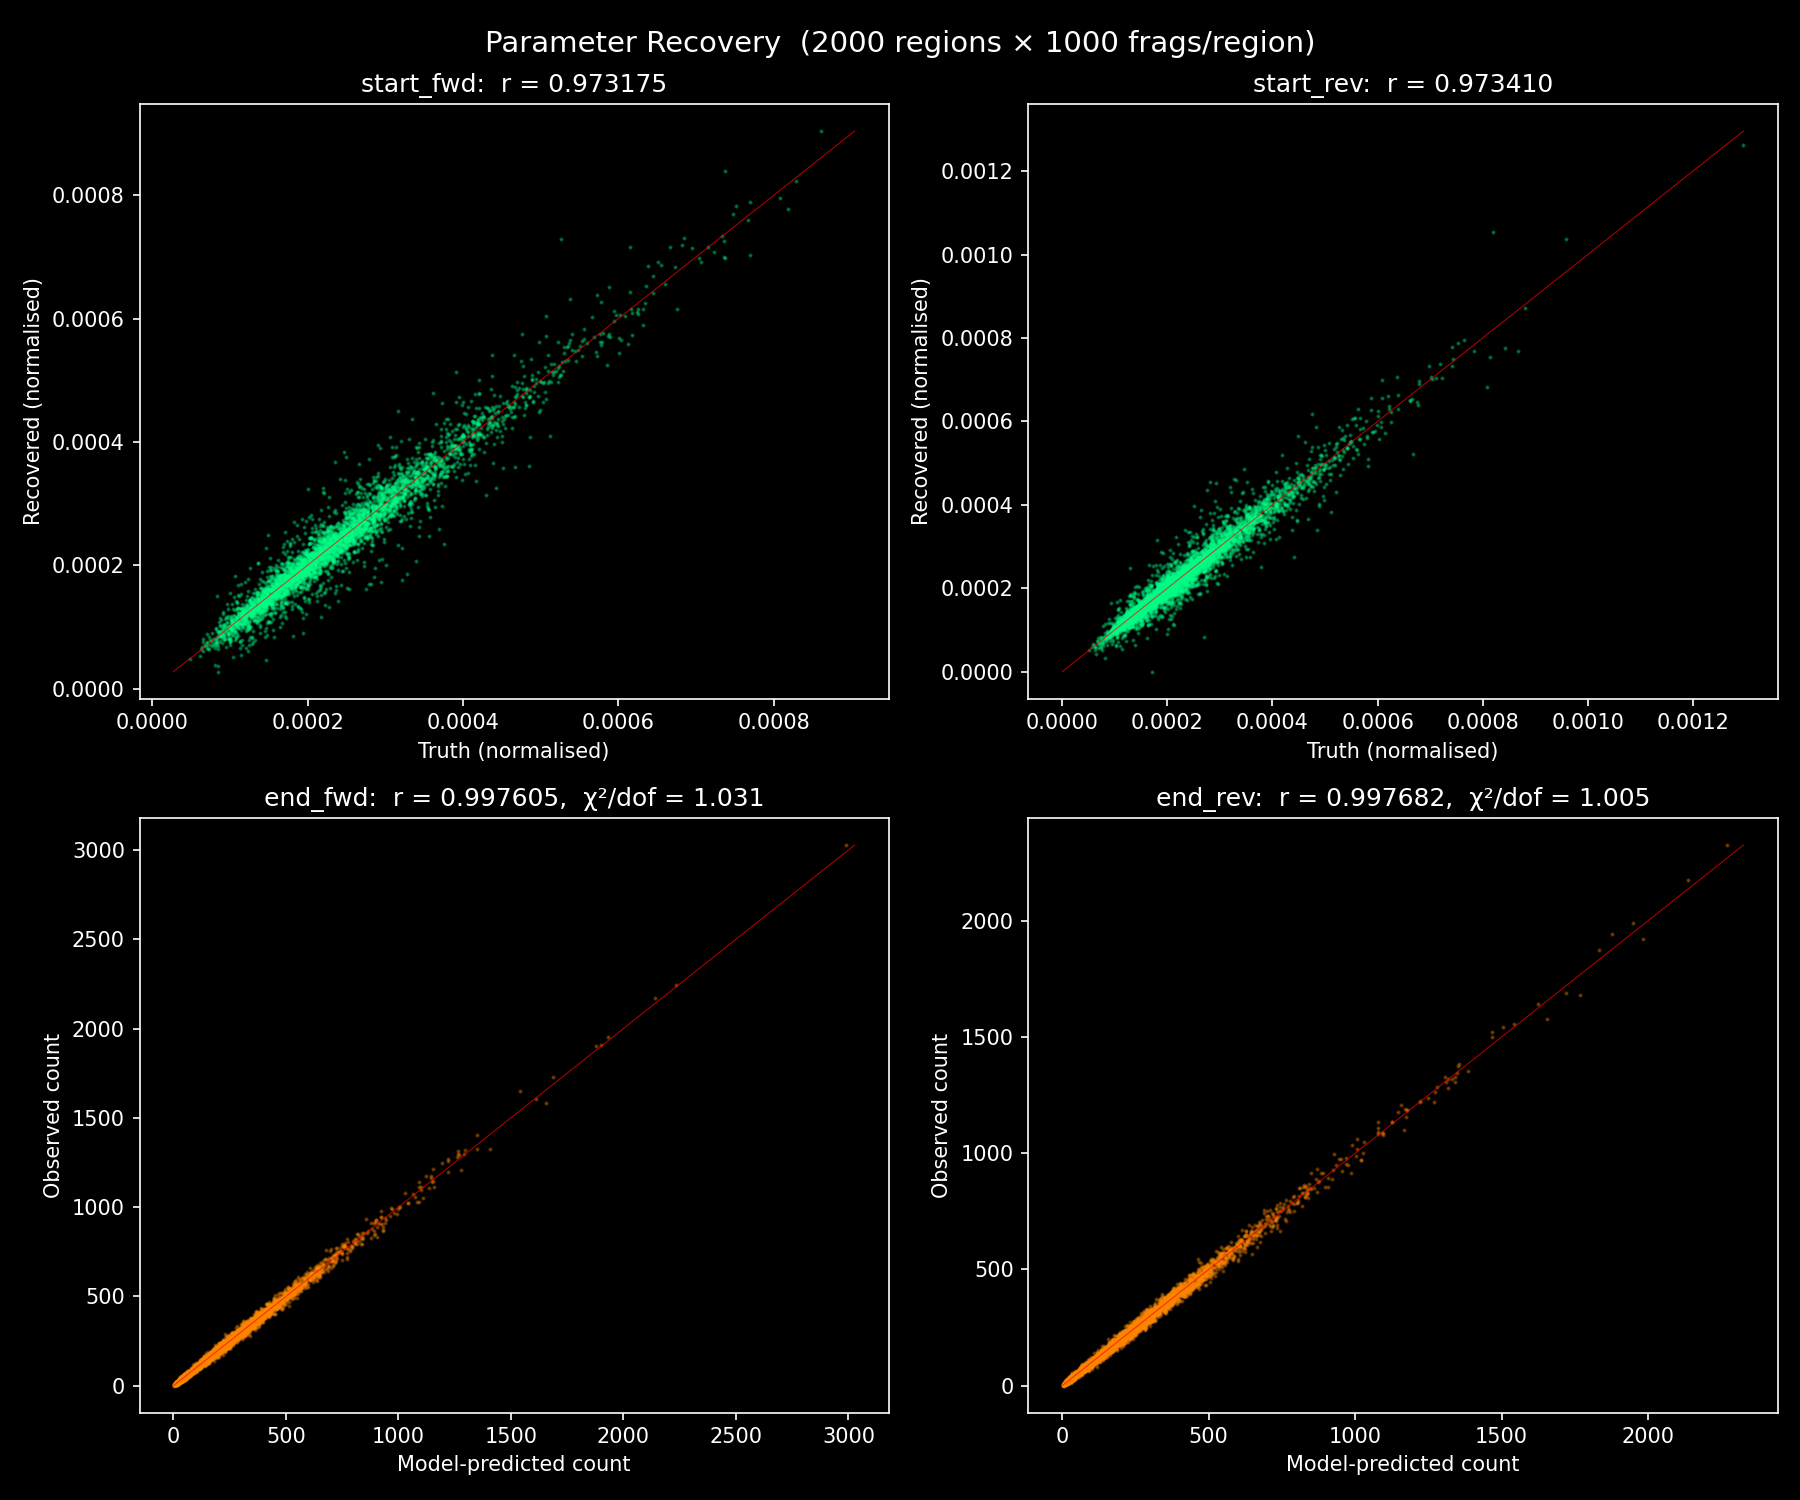
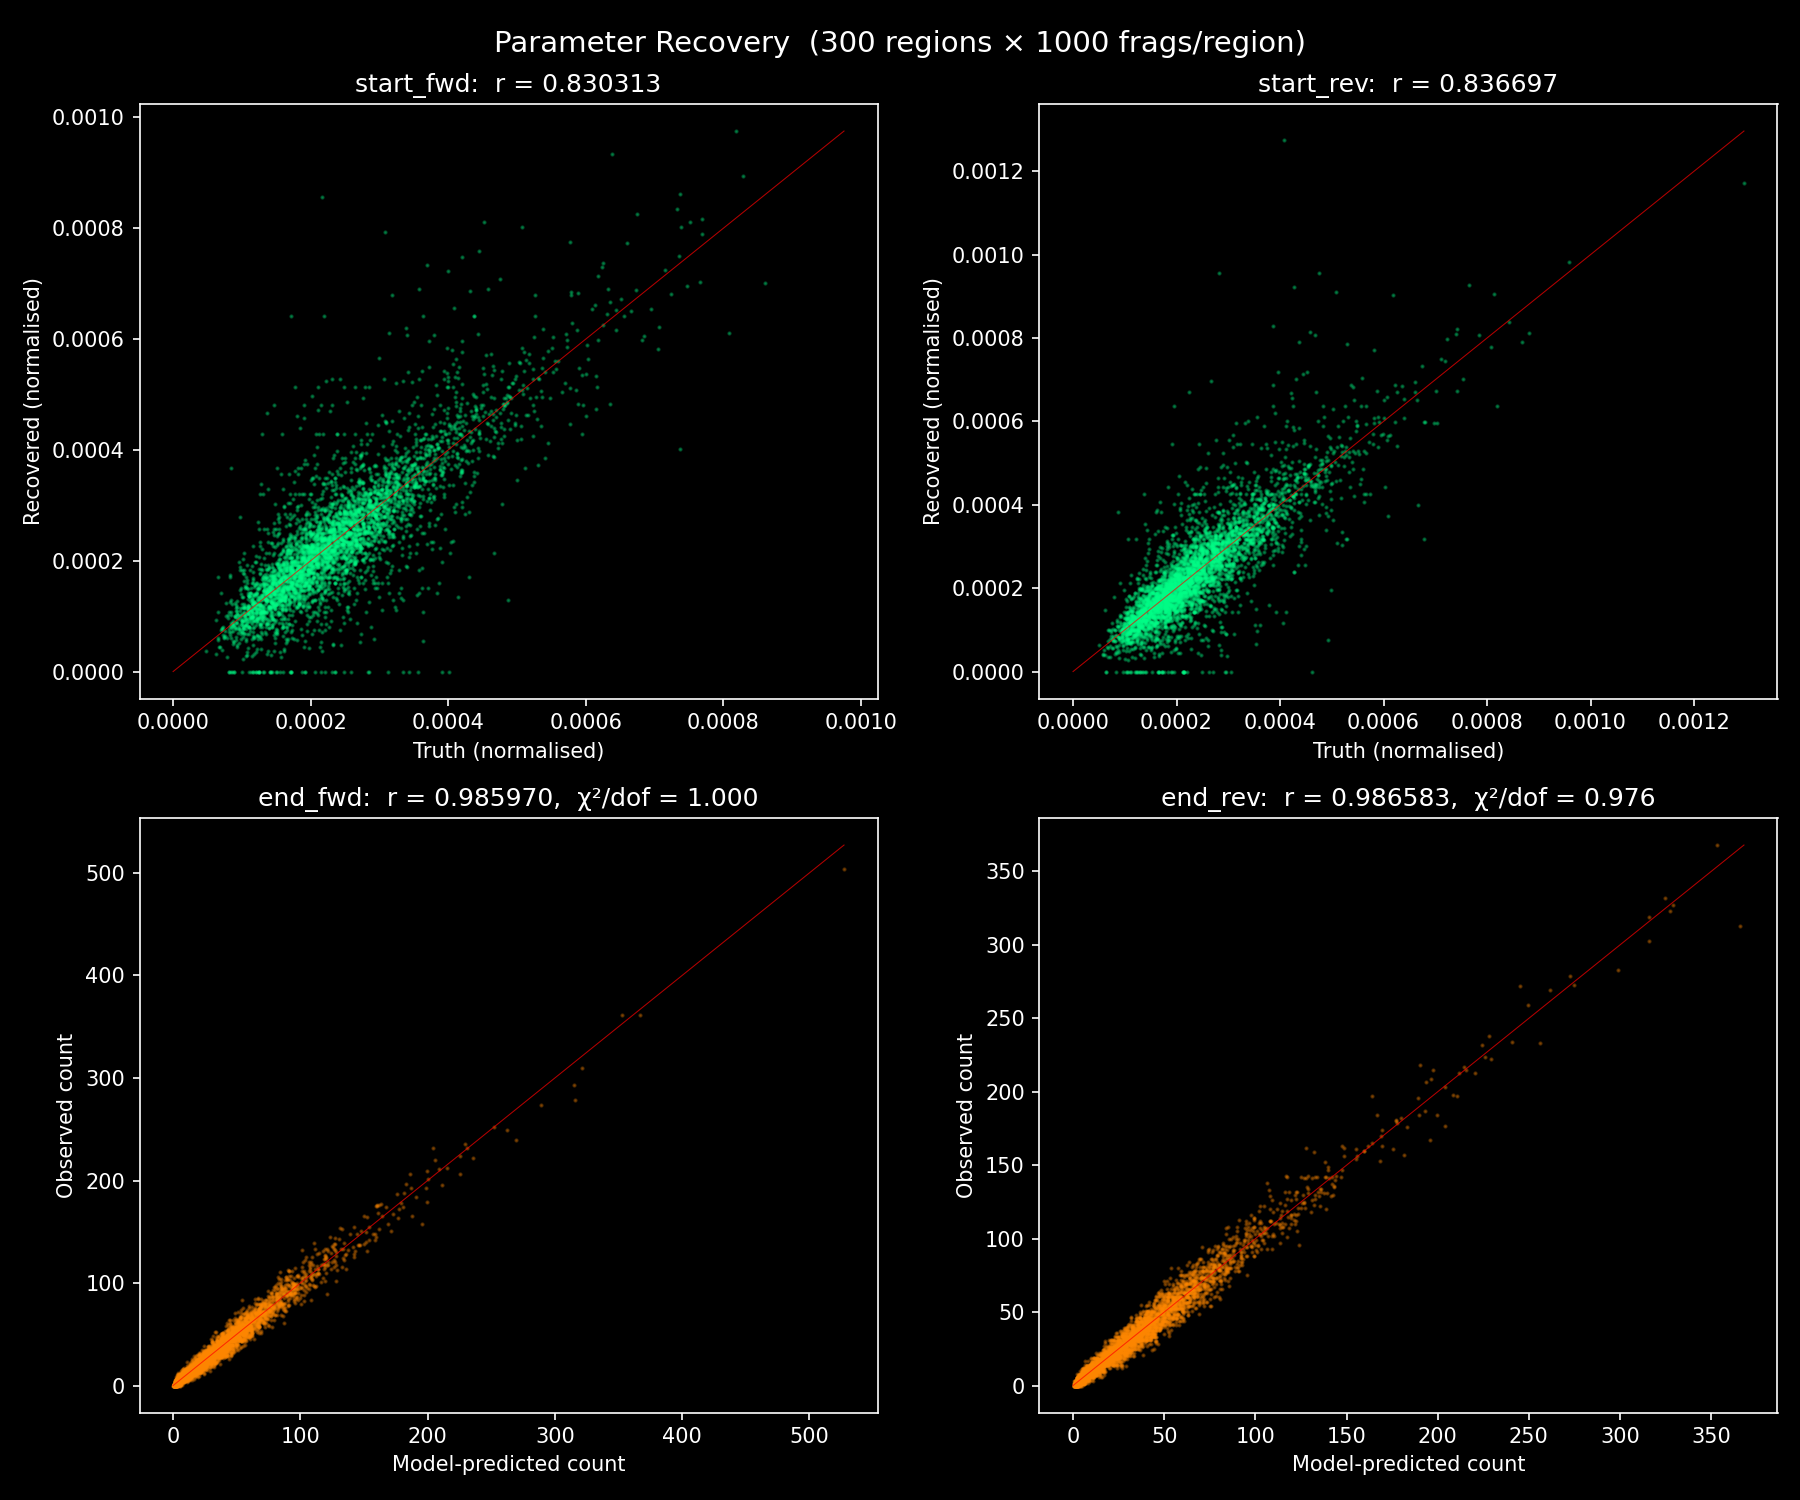
fix: align validate_parameter_recovery.py to padded midpoint geometry
Two defects fixed:

1. Fragment hexamer lookups used region-local coordinates directly as
   array indices, but arrays are now padded by MAX_FL_HALF=90 on each
   side. Added + pad offset to all four bincount index expressions.

2. The model-predicted 3p hexamer marginal iterated over the old
   containment-rule domain and indexed w_plus/w_minus without pad
   offset. Replaced with the weight builder midpoint-rule geometry:
   idx_lo = pad - L//2 + j, idx_hi = pad + ceil(L/2) + j.

Background and 5p marginal computations were already correct.

Post-fix run (300 regions x 1000 frags): PASS on all four tables.
  start_fwd chi2/dof=1.028  start_rev chi2/dof=1.014
  end_fwd   chi2/dof=1.000  end_rev   chi2/dof=0.976

Replaces a PASS with a PASS (artifacts regenerated).

diff --git a/scripts/validate_parameter_recovery.py b/scripts/validate_parameter_recovery.py
@@ -83,6 +83,7 @@ from background_model.simulator.sampler import draw_fragments_for_region  # noqa
 from background_model.simulator.weights import (  # noqa: E402
     L_MAX,
     L_MIN,
+    MAX_FL_HALF,
     N_LENGTHS,
     HexamerTables,
     build_region_weights,
@@ -199,6 +200,7 @@ def main() -> int:
     model_3_rev = np.zeros(NHEX, dtype=np.float64)
 
     rng = np.random.default_rng(args.seed)
+    pad = MAX_FL_HALF  # array index = region-local position + pad
 
     # ── Simulation loop ──────────────────────────────────────────────────
     import pysam
@@ -238,14 +240,16 @@ def main() -> int:
         if is_plus.any():
             s_p, e_p = starts[is_plus], stops[is_plus]
             # Plus strand: c5=start, c3=stop; both use hex_fwd
-            obs_5_fwd += np.bincount(pc.hex_fwd[s_p], minlength=NHEX)
-            obs_3_fwd += np.bincount(pc.hex_fwd[e_p], minlength=NHEX)
+            # Region-local coords → array indices by adding pad
+            obs_5_fwd += np.bincount(pc.hex_fwd[s_p + pad], minlength=NHEX)
+            obs_3_fwd += np.bincount(pc.hex_fwd[e_p + pad], minlength=NHEX)
 
         if is_minus.any():
             s_m, e_m = starts[is_minus], stops[is_minus]
             # Minus strand: c5=stop (higher coord), c3=start; both use hex_rc
-            obs_5_rev += np.bincount(pc.hex_rc[e_m], minlength=NHEX)
-            obs_3_rev += np.bincount(pc.hex_rc[s_m], minlength=NHEX)
+            # Region-local coords → array indices by adding pad
+            obs_5_rev += np.bincount(pc.hex_rc[e_m + pad], minlength=NHEX)
+            obs_3_rev += np.bincount(pc.hex_rc[s_m + pad], minlength=NHEX)
 
         # ── Background for start-table recovery ─────────────────────────
         # B_s[h] = #{c5 : hex_s(c5)=h, Z_s(c5)>0}
@@ -273,29 +277,31 @@ def main() -> int:
         )
 
         # ── Model-predicted 3' hex marginal ─────────────────────────────
-        # For each (c5, li), the 3' hexamer is hex_s[c3(c5,L,s)].
-        # Accumulate w at each 3' hexamer index.
+        # Mirror the weight builder's midpoint-rule geometry:
+        #   idx_lo = pad - L//2 + j       (plus c5, minus c3)
+        #   idx_hi = pad + ceil(L/2) + j   (plus c3, minus c5)
+        # where j ∈ [0, region_len) is the midpoint index.
         for li in range(N_LENGTHS):
             L = L_MIN + li
-            # Plus strand: c5 in [0, region_len-L], c3 = c5+L
-            max_c5 = region_len - L
-            if max_c5 >= 0:
-                c5s = np.arange(0, max_c5 + 1)
-                c3s = c5s + L
-                model_3_fwd += np.bincount(
-                    pc.hex_fwd[c3s],
-                    weights=rw.w_plus[c5s, li],
-                    minlength=NHEX,
-                )
-            # Minus strand: c5 in [L, region_len], c3 = c5-L
-            if L <= region_len:
-                c5s = np.arange(L, region_len + 1)
-                c3s = c5s - L
-                model_3_rev += np.bincount(
-                    pc.hex_rc[c3s],
-                    weights=rw.w_minus[c5s, li],
-                    minlength=NHEX,
-                )
+            half_down = L // 2
+            half_up = L - half_down
+
+            j = np.arange(region_len)
+            idx_lo = pad - half_down + j
+            idx_hi = pad + half_up + j
+
+            # Plus strand: 3' hex at idx_hi, weight from w_plus[idx_lo, li]
+            model_3_fwd += np.bincount(
+                pc.hex_fwd[idx_hi],
+                weights=rw.w_plus[idx_lo, li],
+                minlength=NHEX,
+            )
+            # Minus strand: 3' hex at idx_lo, weight from w_minus[idx_hi, li]
+            model_3_rev += np.bincount(
+                pc.hex_rc[idx_lo],
+                weights=rw.w_minus[idx_hi, li],
+                minlength=NHEX,
+            )
 
         if (i + 1) % 200 == 0:
             el = time.perf_counter() - t_loop
